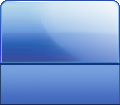
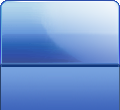
update cinnamon frames and panels

diff --git a/theme-src/common/cinnamon/_common.scss b/theme-src/common/cinnamon/_common.scss
@@ -193,9 +193,9 @@ StScrollBar {
  * Panel (panel.js)
  * ===================================================================*/
 
-$panel_slice: 3 0 1 1;
+$panel_slice: 12 26 0 0;
 
-@if $flavor == 'royale' { $panel_slice: 1 0 1 1; }
+//@if $flavor == 'royale' { $panel_slice: 1 0 1 1; }
 
 #panel {
   color: $panel_left_fg_color;
@@ -769,7 +769,7 @@ $panel_slice: 3 0 1 1;
 
 #panelLeft .applet-box:first-child {
   color: $start_menu_icon_color;
-  border-image: url('Panel/start-button.png') 10 15 6 6;
+  border-image: url('Panel/start-button.png') 0 15 0 6;
   padding: 0 25px 0 8px;
   text-shadow: 1px 1px 2px 1px rgba(0,0,0,0.5);
   font-style: italic;
@@ -777,9 +777,9 @@ $panel_slice: 3 0 1 1;
   font-weight: normal;
   font-size: 19px;
   
-  &:hover { border-image: url('Panel/start-button-hover.png') 6 11 6 6; }
+  &:hover { border-image: url('Panel/start-button-hover.png') 0 11 0 6; }
 
-  &:active { border-image: url('Panel/start-button-active.png') 6 11 6 6; }
+  &:active { border-image: url('Panel/start-button-active.png') 0 11 0 6; }
 }
 
 /* Main menu title */
@@ -789,18 +789,18 @@ $panel_slice: 3 0 1 1;
   box-shadow: 2px 2px 2px rgba(0,0,0,0.5);
 
   @if $flavor == 'luna' {
-	border-image: url("Frames/menu-bg.png") 12 12 67 42;
-    padding: 55px 1px 0 1px;
+	border-image: url("Frames/menu-bg.png") 59 60 68 44;
+    padding: 55px 1px 0px 1px;
   }
   
   @if $flavor == 'metallic' {
-	border-image: url("Frames/menu-bg.png") 12 12 67 43;
-    padding: 55px 1px 0 1px;
+	border-image: url("Frames/menu-bg.png") 8 8 66 44;
+    padding: 55px 1px 0px 1px;
   }
 
   @else if $flavor == 'royale' {
-    border-image: url("Frames/menu-bg.png") 8 8 63 41;
-    padding: 55px 1px 10px 1px;
+    border-image: url("Frames/menu-bg.png") 83 36 66 44;
+    padding: 55px 1px 0px 1px;
   }
 }
 
@@ -841,6 +841,7 @@ $panel_slice: 3 0 1 1;
   .menu-applications-inner-box {
     padding: 5px;
     background-color: $start_menu_box_bg_color;
+    @if $flavor == 'royale' { box-shadow: inset 1px 1px #10377c; }
   }
 
   StScrollBar { padding: 0; }
@@ -852,7 +853,7 @@ $panel_slice: 3 0 1 1;
     background-color: $start_menu_box_bg_color;
     color: $start_menu_box_fg_color;
 
-    @if $flavor == 'luna' or $flavor == 'metallic' { border-bottom-width: 0; }
+    border-bottom-width: 0;
   }
 
   StBin#trough {
@@ -1439,18 +1440,18 @@ $desklet_slice: 6;
   box-shadow: 2px 2px 2px rgba(0,0,0,0.5);
 
   @if $flavor == 'luna' { 
-	border-image: url("Frames/menu-bg.png") 12 12 67 42;
-    padding: 54px 1px 29px 1px; 
+	border-image: url("Frames/menu-bg.png") 59 60 68 44;
+    padding: 54px 1px 30px 1px; 
   }
 
   @if $flavor == 'metallic' {
-	border-image: url("Frames/menu-bg.png") 12 12 67 43;
-    padding: 52px 1px 29px 1px;
+	border-image: url("Frames/menu-bg.png") 8 8 66 44;
+    padding: 52px 1px 30px 1px;
   }
 
   @else if $flavor == 'royale' { 
-    border-image: url("Frames/menu-bg.png") 8 8 63 41;
-    padding: 50px 0 27px 0;
+    border-image: url("Frames/menu-bg.png") 83 36 66 44;
+    padding: 52px 0 30px 0;
   }
 }
 
